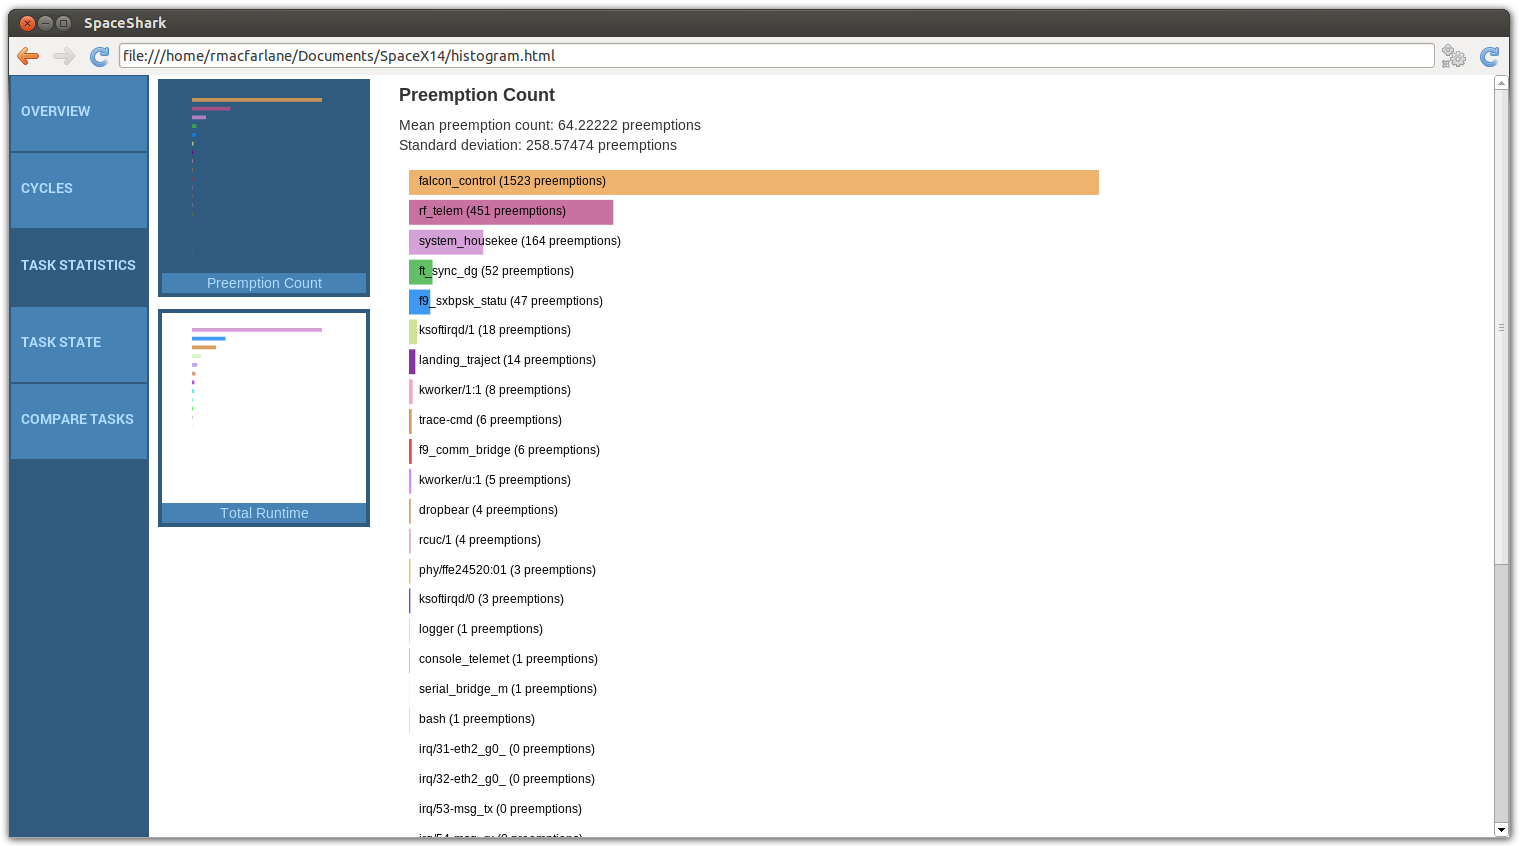
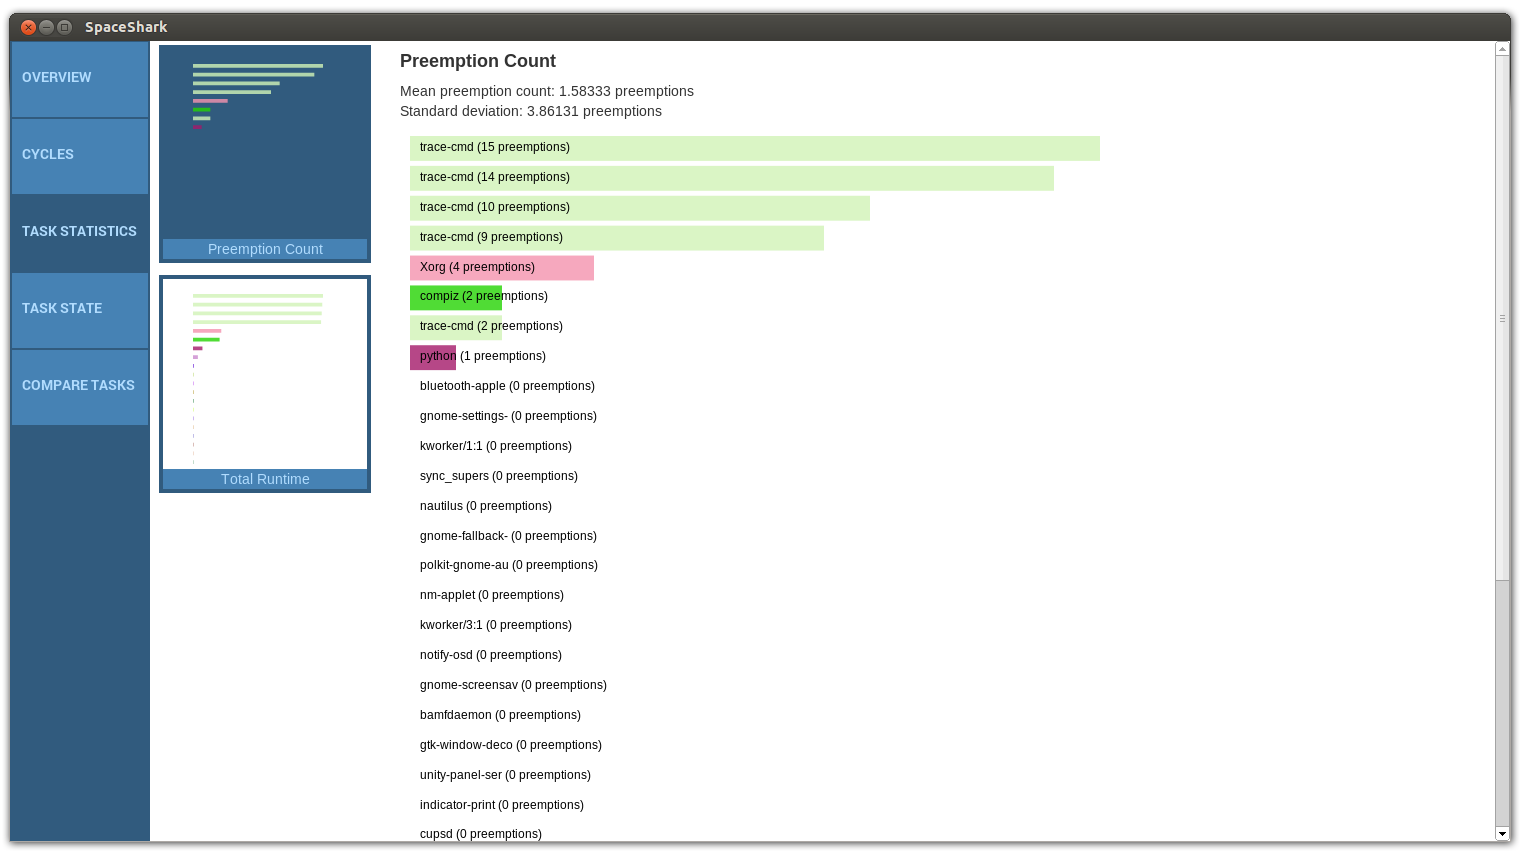
replace task statistics image, fix typos

Changed region(s): [[0.0, 0.0, 1.0, 1.0], [0.0, 0.3995, 0.0926, 0.461]]

diff --git a/latex/spacex-final-report.tex b/latex/spacex-final-report.tex
@@ -207,17 +207,18 @@ which is an inefficient use of engineer's time. \\
 \end{figure}
 
 KernelShark displays the data but provides limited ways to interact with it. It
-does not have many features geared towards finding anomalies and no tools for
+does not have many features geared towards finding anomalies and has no tools for
 dealing with cycles.  In order to utilize information about cycles, the user
-must manually recognize where cycles start and end. Then they must manually
-compare all cycles to one another to see if anything is different, by going back
-and forth on the timeline KernelShark provides.
+must recognize by sight alone where cycles start and end, which is very
+difficult. Users are only able to compare cycles by moving back and forth on
+the timeline KernelShark provides, also a time consuming process.
 
-KernelShark has a poorly designed UI that does not function as
-expected. The tabular view on the bottom of KernelShark is not searchable, nor
-can the columns be sorted. None of the lists in KernelShark can be sorted, so a user might need to look through a list
-with hundreds of tasks to find the specific task they want. Additionally, zooming out on
-KernelShark's visual timeline is uninituitive and confusing.
+KernelShark has a poorly designed UI that does not function as expected. The
+events table at the bottom of KernelShark is not searchable, nor can the columns
+be sorted. When a user wants to display a specific task, they must choose from
+an unsortable and unsearchable list of tasks that might be hundreds of tasks
+long. Additionally, zooming out on KernelShark's visual timeline is
+uninituitive and confusing.
 
 %Using only this visualization, it can be difficult to see where the cyclical
 %deadlines for the programs begin and end, making it hard to find when something
@@ -1040,7 +1041,7 @@ representation of the tasks, and the bottom is a tabular view.}
 \subsubsection{Task State Page}
 
 With KernelShark, a user could choose individual tasks to display under
-the main timeline of all events. However, that was teh extend of what
+the main timeline of all events. However, that was the extent of what
 Kernelshark did with regards to individual tasks.
 
 The team was interested in providing more details and statistics about
